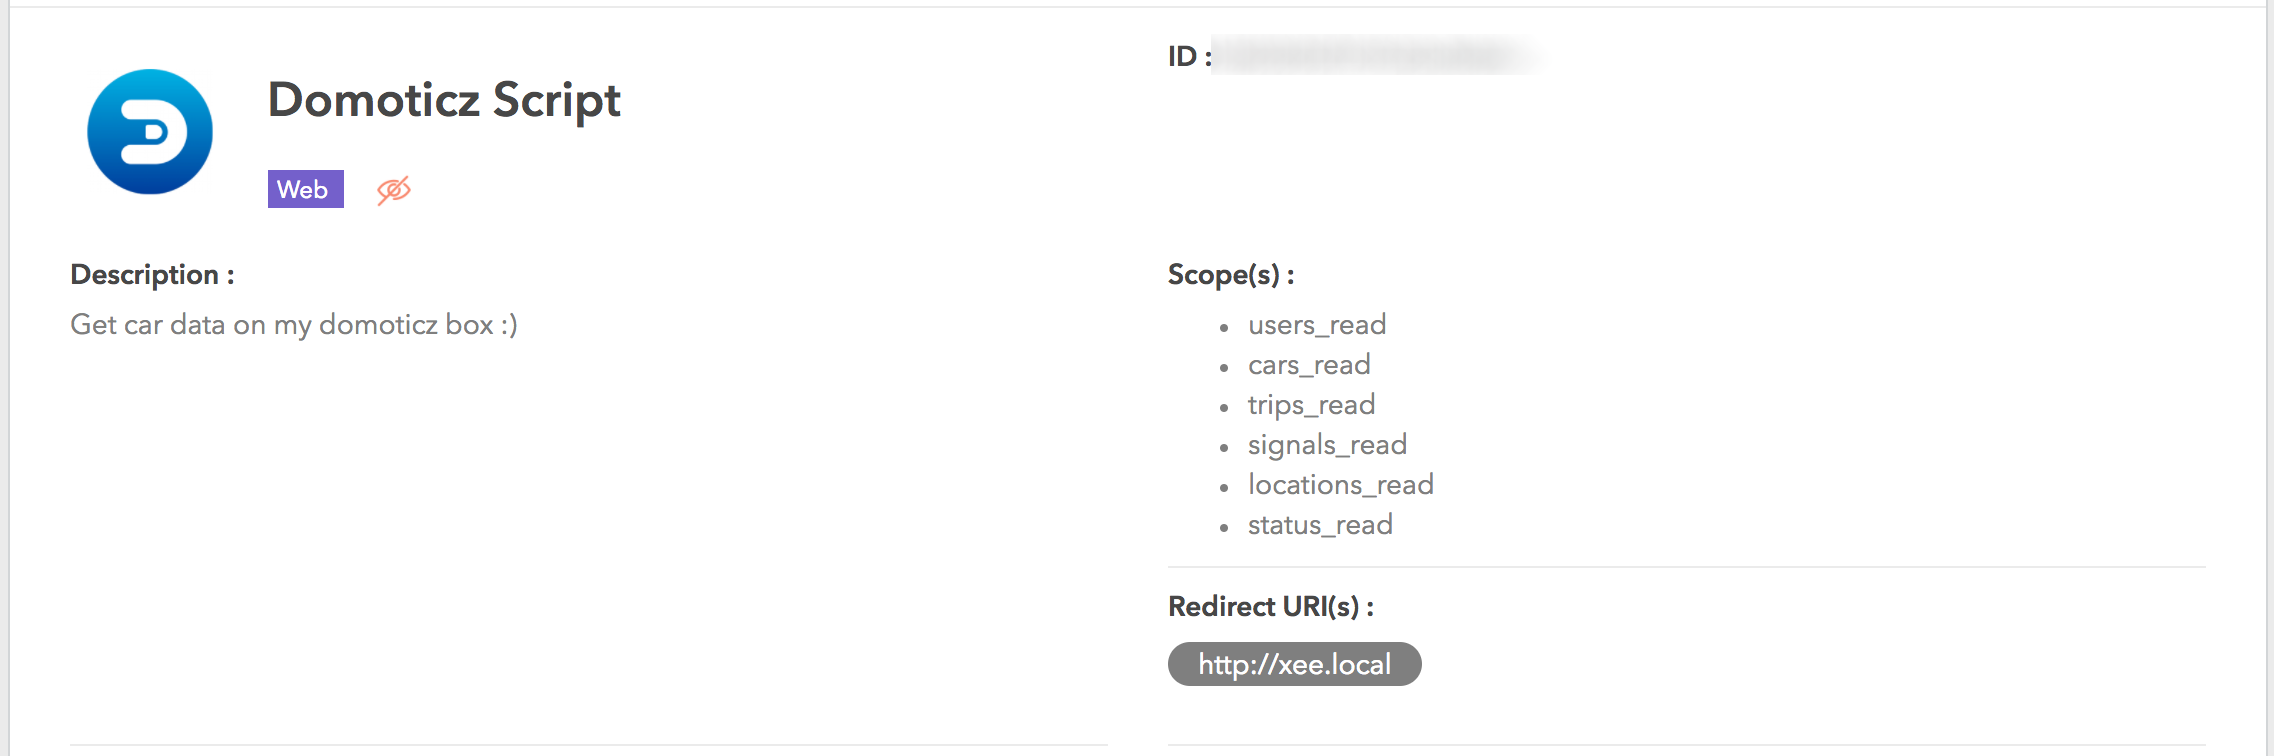
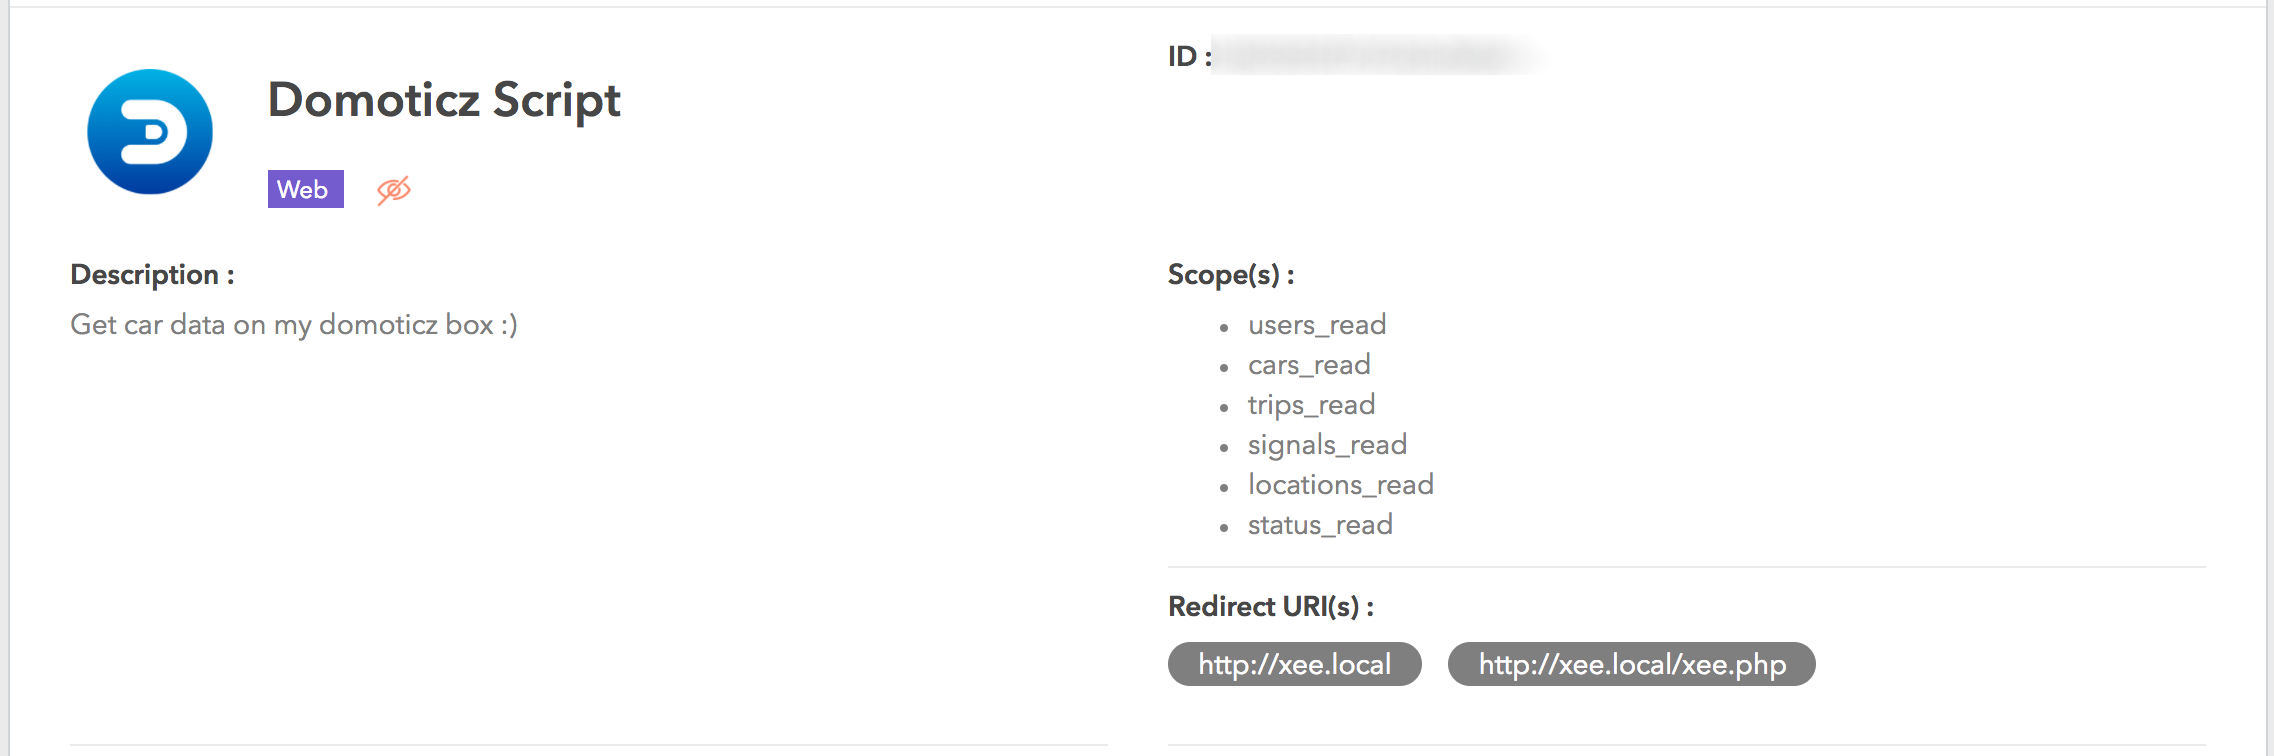
add screen + log message

Changed region(s): [[0.6245, 0.8519, 0.8118, 0.9127]]

diff --git a/xee-car-data-to-domoticz-php/xee.php b/xee-car-data-to-domoticz-php/xee.php
@@ -194,6 +194,8 @@ function get_xee_data($token){
 		exit();
 	}elseif($data == "domoticz"){
 
+		echo "Send data to Domoticz :<br>";
+
 		//Kilometrage total
 		send_to_domoticz(212,$car_data['Odometer'],0,1);
 

diff --git a/xee-car-data-to-domoticz-php/README.md b/xee-car-data-to-domoticz-php/README.md
@@ -13,7 +13,7 @@ Get all car informations with Xee et send all on Domoticz !
 - Create a dev Xee account on https://developer.xee.com/
 - Create a Xee application
 
-![Preview app conf](screen/cap_xee_app_conf)
+![Preview app conf](screen/cap_xee_app_conf.png)
 
 - Note all application informations in a file xee_conf.json like this :
 
@@ -41,11 +41,15 @@ Get all car informations with Xee et send all on Domoticz !
 
 - First time ? You need to launch the script from a web server for getting xee token one time
 - The token is register in the file token.txt
-- The script use this token or ask a new token if is expired automaticali with the refresh_token
+- The script use this token or ask a new token if is expired automatically with the refresh_token
 
 ## Get access token
 
 /!\ Make sure have all prerequisites of [Domoticz Scripts](https://github.com/T3kstiil3/Domoticz_Scripts/#prerequisites)
+
+Edit host on your computer
+
+![Preview host conf](screen/cap_vhost_conf.png)
 
 Create a vhost on your rpi
 
@@ -85,6 +89,14 @@ sudo service apache2 reload
 sudo nano /home/pi/Domoticz_Scripts/xee-car-data-to-domoticz-php/xee_token.txt
 sudo chmod 777 /home/pi/Domoticz_Scripts/xee-car-data-to-domoticz-php/xee_token.txt
 ````
+
+# Test 
+
+Time to test !
+Go http://xee.local/xee.php
+And after Xee login and redirect 
+Go http://xee.local/xee.php?data=car
+Enjoy ! :D
 
 # Informations
 
